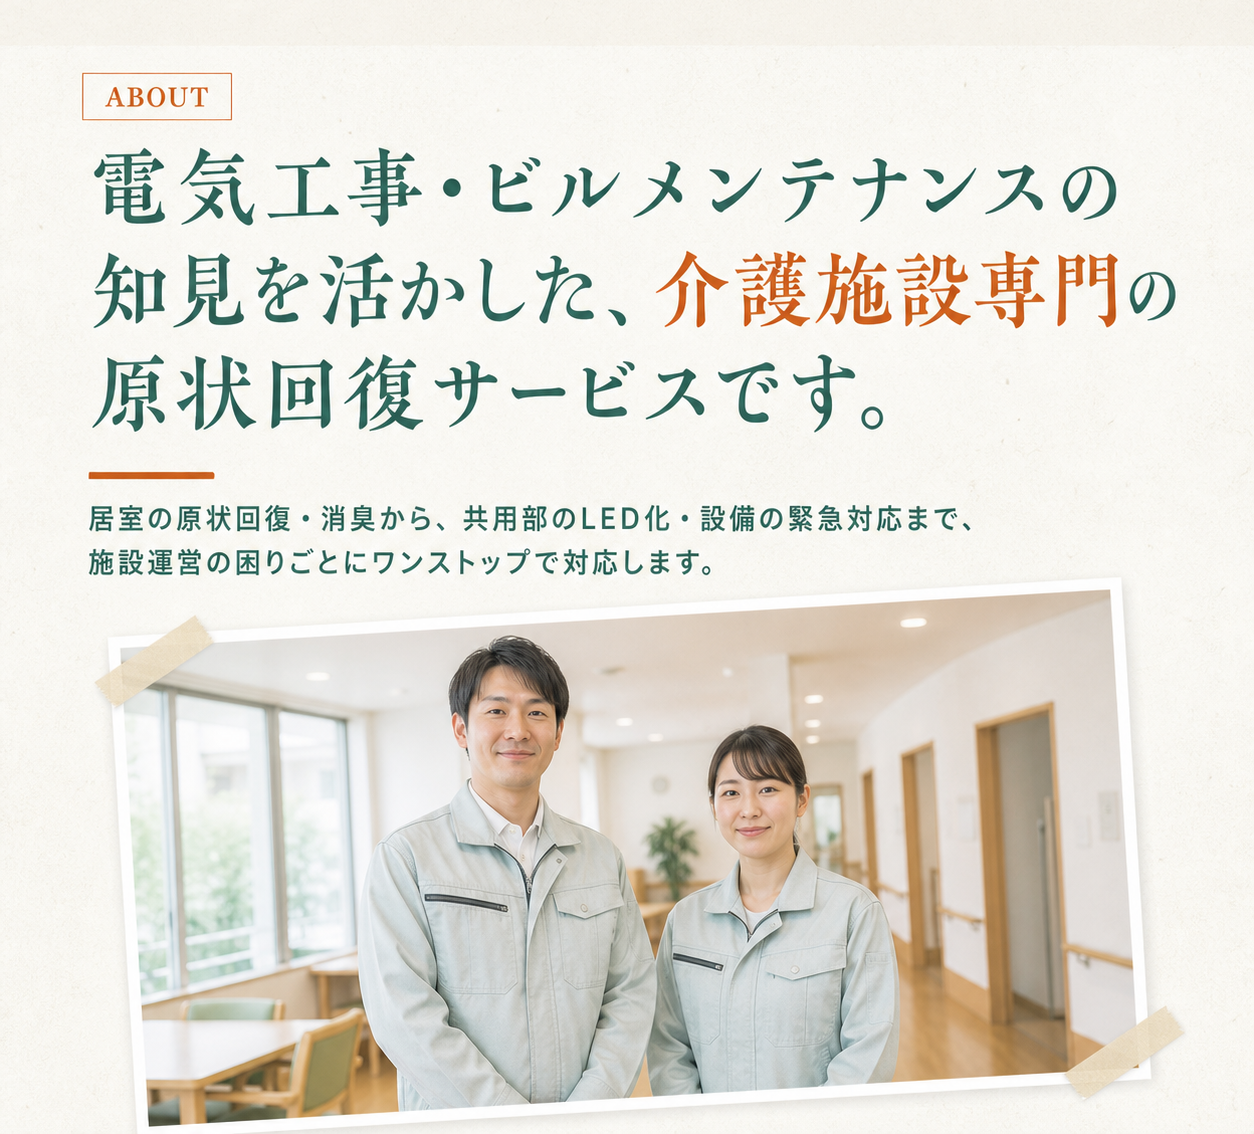
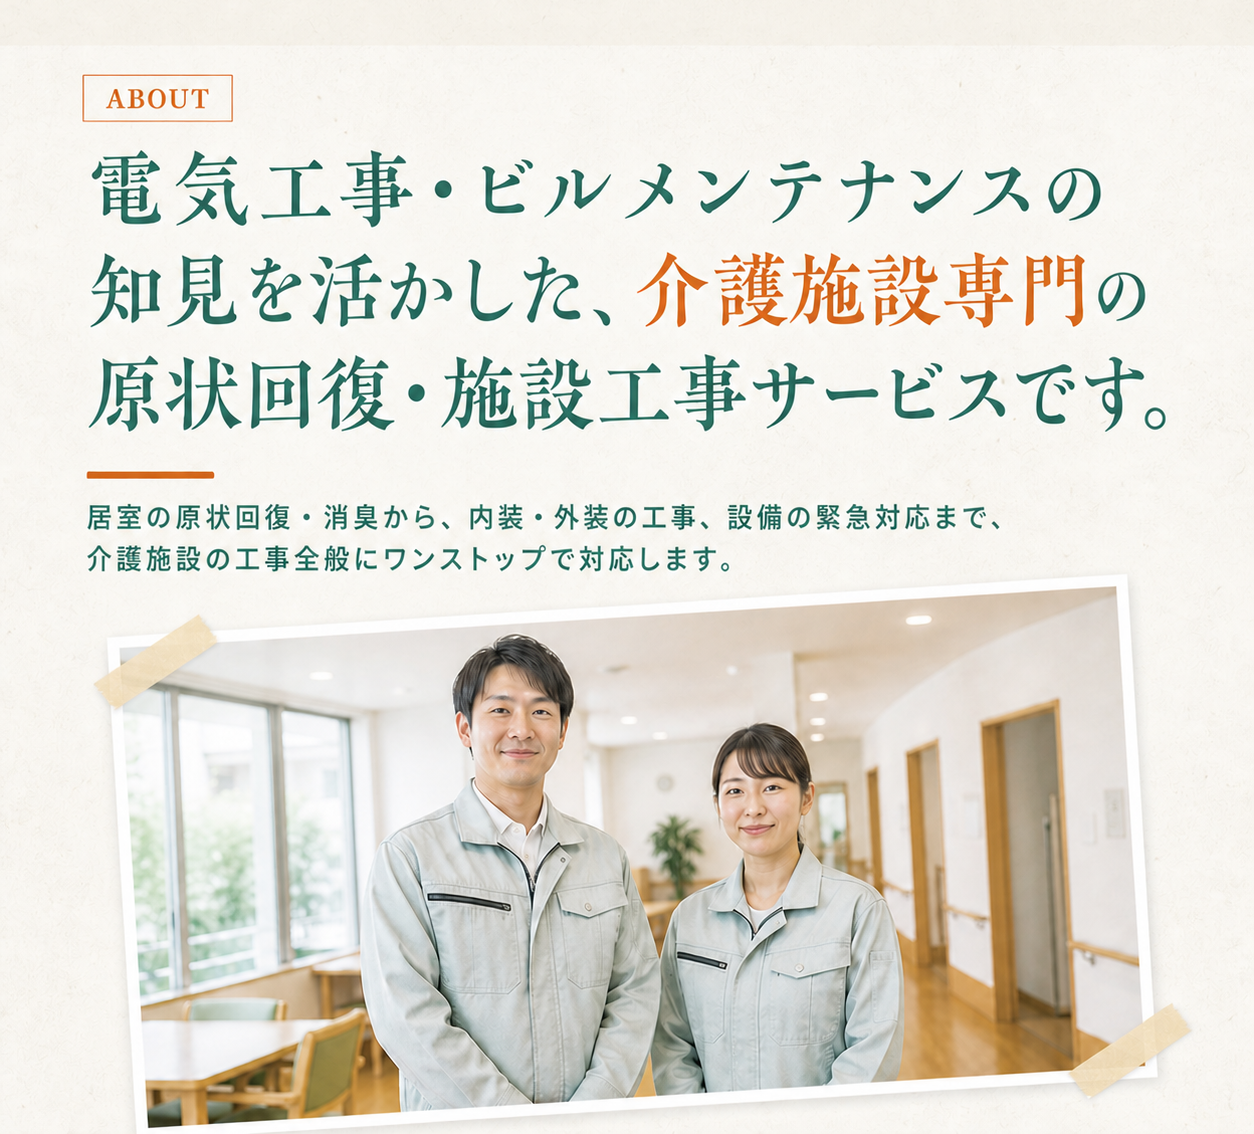
v3.7: 一都三県変更・WORKS新設・ABOUT/FAQ/AREA更新

diff --git a/index.html b/index.html
@@ -3,10 +3,10 @@
 <head>
 <meta charset="UTF-8">
 <meta name="viewport" content="width=device-width, initial-scale=1.0">
-<title>介護施設専門の原状回復・消臭・修繕｜Home Recovery</title>
-<meta name="description" content="介護施設専門の原状回復サービス。退去立会いからハウスクリーニングまで、介護現場を知る自社スタッフがまるごと対応。関東全域・お見積り無料。">
-<meta property="og:title" content="介護施設専門の原状回復・消臭・修繕｜Home Recovery">
-<meta property="og:description" content="介護施設専門の原状回復サービス。退去立会いからハウスクリーニングまで、介護現場を知る自社スタッフがまるごと対応。関東全域・お見積り無料。">
+<title>介護施設専門の原状回復・修繕・内装外装工事｜Home Recovery</title>
+<meta name="description" content="介護施設専門の原状回復・施設工事サービス。退去後の原状回復から修繕・内装・外装まで、介護現場を知る自社スタッフがまるごと対応。一都三県・お見積り無料。">
+<meta property="og:title" content="介護施設専門の原状回復・修繕・内装外装工事｜Home Recovery">
+<meta property="og:description" content="介護施設専門の原状回復・施設工事サービス。退去後の原状回復から修繕・内装・外装まで、介護現場を知る自社スタッフがまるごと対応。一都三県・お見積り無料。">
 <meta property="og:image" content="images/v4-01.png">
 <meta property="og:type" content="website">
 <link rel="icon" href="images/logo-square.jpg">
@@ -44,7 +44,7 @@
 
   <!-- 01 FV -->
   <div class="stack"><img src="images/v4-01.png" alt="空室の1日は、稼働が止まる1日。その空室を、待っている方がいます。介護施設専門サービスだから原状回復・消臭・修繕を、まるっとお任せ！"></div>
-  <div class="note">※対応エリア：関東全域（東京・神奈川・埼玉・千葉・茨城・栃木・群馬）　※住宅型有料老人ホーム・サービス付き高齢者向け住宅・グループホーム・介護付き有料老人ホーム等に対応</div>
+  <div class="note">※対応エリア：一都三県（東京・神奈川・埼玉・千葉）　※住宅型有料老人ホーム・サービス付き高齢者向け住宅・グループホーム・介護付き有料老人ホーム等に対応</div>
 
   <!-- 02 相談カード帯 -->
   <div class="stack hotspot-wrap">
@@ -60,8 +60,11 @@
   <div class="stack"><img src="images/v4-05.png" alt="そのお悩み、介護現場を知るHome Recoveryが、一括で引き受けます。従来の個別手配と、窓口ひとつの比較図" loading="lazy"></div>
 
   <!-- 06 ABOUT -->
-  <div class="stack"><img src="images/v4-06.png" alt="電気工事・ビルメンテナンスの知見を活かした、介護施設専門の原状回復サービスです。" loading="lazy"></div>
+  <div class="stack"><img src="images/v4-06.png" alt="電気工事・ビルメンテナンスの知見を活かした、介護施設専門の原状回復・施設工事サービスです。" loading="lazy"></div>
   <!-- ABOUT-STATS-SLOT: 創業年・実績数が確定したら差し込み -->
+
+  <!-- 06b WORKS 対応工事一覧（v3.7新設） -->
+  <div class="stack"><img src="images/v4-18.png" alt="原状回復だけでは、ありません。介護施設の工事全般に対応。原状回復工事・残置物の撤去・クロス・床張替え・水回りリフォーム・電気工事全般・設備工事全般・修繕・補修工事・退去・入居に伴う工事全般・施設内共用部・事務所工事・施設内リノベーション・施設外壁・外構・外装工事" loading="lazy"></div>
 
   <!-- 07 TOPIC -->
   <div class="stack"><img src="images/v4-07.png" alt="見積金額だけでは選びにくい、介護施設の原状回復。業者選びで確認したい3項目：消臭の方法・作業中の配慮・対応の範囲" loading="lazy"></div>
@@ -107,7 +110,7 @@
   <div class="stack"><img src="images/v4-15.png" alt="よくある質問。消臭やクリーニングだけの依頼、料金の目安、生活中の工事、対象施設、対応エリア、1室だけの依頼、見積りだけの依頼について" loading="lazy"></div>
 
   <!-- 17 AREA -->
-  <div class="stack"><img src="images/v4-16.png" alt="関東全域に対応しています。東京都・神奈川県・埼玉県・千葉県・茨城県・栃木県・群馬県" loading="lazy"></div>
+  <div class="stack"><img src="images/v4-16.png" alt="一都三県に対応しています。東京都・神奈川県・埼玉県・千葉県" loading="lazy"></div>
 
   <!-- 18 クロージング -->
   <div class="stack hotspot-wrap">
@@ -129,7 +132,7 @@
     <table>
       <tr><th>サービス名</th><td>Home Recovery</td></tr>
       <tr><th>運営会社</th><td><a href="https://centerfield-inc.com" target="_blank" rel="noopener">Center Field</a></td></tr>
-      <tr><th>対応エリア</th><td>関東全域</td></tr>
+      <tr><th>対応エリア</th><td>一都三県（東京・神奈川・埼玉・千葉）</td></tr>
     </table>
     <!-- COMPANY-SLOT: 所在地等の詳細・運営会社サイト窓口誘導は先方確認後に追加 -->
     <!-- WORKDATA-SLOT: 実事例が確定したら差し替え -->
